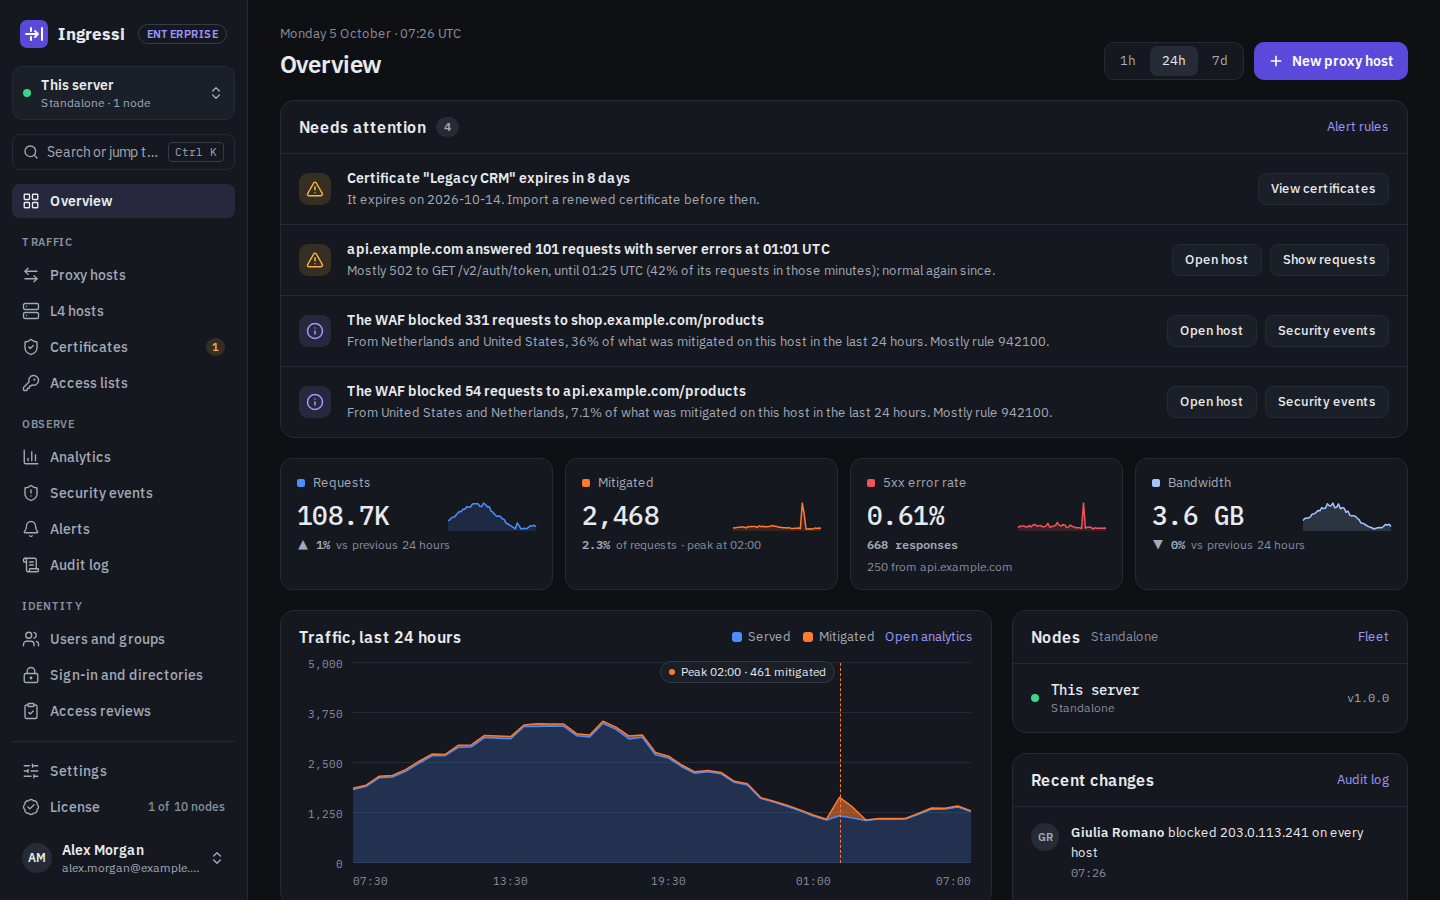
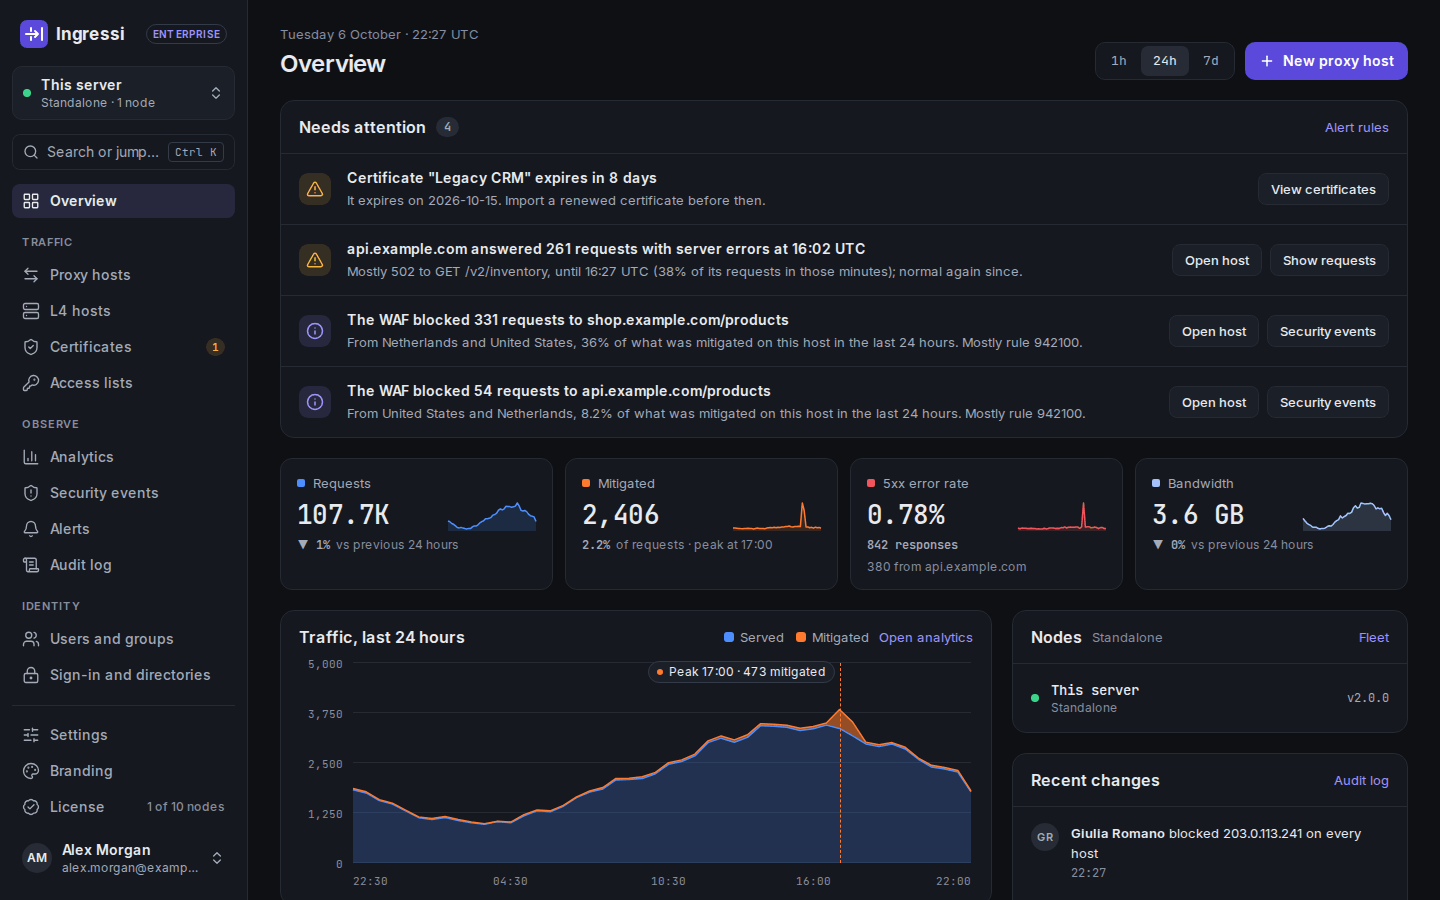
Screenshots: walkthrough captures and WAF audit records for the seeded SQL injection events
- New captures for the website's walkthrough: host editor security, host detail, a WAF event's detail (rule 942100, filtered by URL), certificates, access lists, audit log
- Seeded rule 942100 events carry a Coraza audit record, so their detail explains the block and suggests an exclusion
- README dashboard screenshot retaken

Claude-Session: https://claude.ai/code/session_01GVa3e7dow7rzRtzMwWmNwp

diff --git a/tests/shots/data.ts b/tests/shots/data.ts
@@ -420,16 +420,82 @@ FROM (
 )
 `;
 
-/** One WAF event for every request the WAF stopped (the first specific rule, as the log parser stores it). */
+/**
+ * One WAF event for every request the WAF stopped (the first specific rule, as the log parser stores it).
+ * The SQL injection events carry a Coraza audit record (sqliRecord), so the event detail can say why
+ * each was blocked and offer an exclusion; the others have none, like events logged without one.
+ */
 export const WAF_EVENTS_SQL = `
 INSERT INTO waf_events (ts, host, client_ip, country_code, method, uri, rule_id, rule_message, severity, raw_data, blocked, tx_id)
 SELECT ts, host, client_ip, country_code, method, uri, toInt32(waf_rule_id),
        transform(waf_rule_id, {rule_ids:Array(UInt32)}, {rule_messages:Array(String)}, ''),
        transform(waf_rule_id, {rule_ids:Array(UInt32)}, {rule_severities:Array(String)}, 'critical'),
-       NULL, true, lower(hex(cityHash64(ts, client_ip, uri, host, rand())))
-FROM traffic_events
-WHERE outcome = 'waf' AND waf_rule_id != 0
+       nullIf(replaceAll(replaceAll(replaceAll(replaceAll(replaceAll(
+         transform(uri, {sqli_paths:Array(String)}, {sqli_records:Array(String)}, ''),
+         '__TX__', tx), '__HOST__', host), '__CLIENT__', client_ip), '__METHOD__', method),
+         '__NS__', concat(toString(toUnixTimestamp(ts)), '000000000')), ''),
+       true, tx
+FROM (
+  SELECT *, lower(hex(cityHash64(ts, client_ip, uri, host, rand()))) AS tx
+  FROM traffic_events
+  WHERE outcome = 'waf' AND waf_rule_id != 0
+)
 `;
+
+/** The argument and value a SQL injection path attacks: ARGS:id, 1' OR '1'='1. */
+function sqliArgument(path: string): { name: string; value: string } {
+  const query = path.slice(path.indexOf('?') + 1);
+  const [name, raw] = query.split(/=(.*)/s);
+  return { name, value: decodeURIComponent(raw) };
+}
+
+/**
+ * The Coraza audit record (SecAuditLogParts ABFHZ, as coraza-caddy writes it) of a blocked SQL injection
+ * request: rule 942100 matched, then the inbound anomaly score blocked it. __TX__, __HOST__, __CLIENT__,
+ * __METHOD__ and __NS__ are filled in per event by WAF_EVENTS_SQL.
+ */
+export function sqliRecord(path: string): string {
+  const arg = sqliArgument(path);
+  const q = (value: string) => JSON.stringify(value);
+  const line = (action: string, id: number, msg: string, data: string, severity: string, file: string) =>
+    `[client "__CLIENT__"] ${action} ${msg} [file ${q(file)}] [line "4242"] [id ${q(String(id))}] [rev ""] ` +
+    `[msg ${q(msg)}] [data ${q(data)}] [severity ${q(severity)}] [ver "OWASP_CRS/4.25.0"] [maturity "0"] [accuracy "0"] ` +
+    `[tag "attack-sqli"] [hostname "172.18.0.5"] [uri ${q(path)}] [unique_id "__TX__"]`;
+  const partH = (error: string) => ({ actionset: '', message: '', error_message: error, data: null });
+  return JSON.stringify({
+    transaction: {
+      timestamp: '',
+      unix_timestamp: '__NS__',
+      id: '__TX__',
+      client_ip: '__CLIENT__',
+      client_port: 51234,
+      host_ip: '172.18.0.5',
+      host_port: 443,
+      server_id: '',
+      request: {
+        method: '__METHOD__',
+        protocol: 'HTTP/2.0',
+        uri: path,
+        http_version: '2.0',
+        headers: { host: ['__HOST__'], 'user-agent': ['sqlmap/1.8.4#stable (https://sqlmap.org)'] },
+        body: '',
+        files: null,
+        args: {},
+        length: 0,
+      },
+      response: { protocol: '', status: 403, headers: {}, body: '' },
+      producer: { connector: 'coraza-caddy', version: 'v2.6.1', server: '', rule_engine: 'On', stopwatch: '', rulesets: ['OWASP_CRS/4.25.0'] },
+      highest_severity: '',
+      is_interrupted: true,
+    },
+    messages: [
+      partH(line('Coraza: Warning.', 942100, 'SQL Injection Attack Detected via libinjection',
+        `Matched Data: s&sos found within ARGS:${arg.name}: ${arg.value}`, 'CRITICAL', '@owasp_crs/REQUEST-942-APPLICATION-ATTACK-SQLI.conf')),
+      partH(line('Coraza: Access denied (phase 2).', 949110, 'Inbound Anomaly Score Exceeded (Total Score: 5)',
+        '', 'unknown', '@owasp_crs/REQUEST-949-BLOCKING-EVALUATION.conf')),
+    ],
+  }).replace('"__NS__"', '__NS__');
+}
 
 /**
  * Matches that stay below the anomaly threshold (protocol notices and
@@ -448,10 +514,13 @@ FROM (
 
 export function ruleParams() {
   const ids = Object.keys(CRS_RULES).map(Number);
+  const sqliPaths = [...new Set([...ATTACKS, ...PROBES].filter(([, rule]) => rule === 942100).map(([path]) => path))];
   return {
     rule_ids: ids,
     rule_messages: ids.map((id) => CRS_RULES[id].message),
     rule_severities: ids.map((id) => CRS_RULES[id].severity),
+    sqli_paths: sqliPaths,
+    sqli_records: sqliPaths.map(sqliRecord),
   };
 }
 

diff --git a/tests/shots/screenshots.spec.ts b/tests/shots/screenshots.spec.ts
@@ -7,6 +7,9 @@
  *   users-and-sign-in.png, compliance.png  → the website's site/assets/screenshots/
  *   preview.png (1200×630, og:image)        → the website's site/assets/images/
  *   dashboard.png                           → this repository's .github/assets/
+ *   host-editor-security.png, host-detail.png, security-event-detail.png,
+ *   certificates.png, access-lists.png,
+ *   audit-log.png                           → the website's feature walkthrough
  * and full-page copies under review/ for checking what each page showed.
  * Look at every image before publishing it: synthetic data only, nothing
  * half-loaded, no error banners. The License page is never captured (it
@@ -139,13 +142,43 @@ test('host editor', async ({ page }) => {
     if (await link.isVisible().catch(() => false)) {
       await link.click();
       await page.waitForTimeout(1500);
-      await page.screenshot({ path: resolve(REVIEW, `host-editor-${section.toLowerCase()}.png`), animations: 'disabled' });
+      if (section === 'Security') await capture(page, 'host-editor-security');
+      else await page.screenshot({ path: resolve(REVIEW, `host-editor-${section.toLowerCase()}.png`), animations: 'disabled' });
     }
   }
   await page.goto(`/proxy-hosts/${id}`);
   await page.waitForTimeout(3000);
-  await page.screenshot({ path: resolve(REVIEW, 'host-detail.png'), animations: 'disabled' });
+  await capture(page, 'host-detail');
 });
+
+test('security event detail', async ({ page }) => {
+  // A WAF block of the SQL injection rule: its detail says why and offers an exclusion.
+  const filters = JSON.stringify([{ dim: 'waf_rule', op: 'is', value: '942100' }]);
+  await page.goto(`/security?range=24h&kind=waf&filters=${encodeURIComponent(filters)}`);
+  const wafRow = page.locator('table tr').filter({ hasText: 'Blocked by WAF' }).filter({ hasText: '942100' }).first();
+  await expect(wafRow).toBeVisible({ timeout: 30_000 });
+  await wafRow.locator('button[aria-expanded="false"]').click();
+  const open = page.locator('table button[aria-expanded="true"]').first();
+  await expect(open).toBeVisible();
+  await page.waitForTimeout(1500);
+  await open.evaluate((button) => {
+    const row = button.closest('tr');
+    if (row) window.scrollBy(0, row.getBoundingClientRect().top - 140);
+  });
+  await capture(page, 'security-event-detail');
+});
+
+for (const [name, path] of [
+  ['certificates', '/certificates'],
+  ['access-lists', '/access-lists'],
+  ['audit-log', '/audit-log'],
+] as const) {
+  test(name, async ({ page }) => {
+    await page.goto(path);
+    await expect(page.getByRole('heading', { level: 1 })).toBeVisible();
+    await capture(page, name);
+  });
+}
 
 test('users and sign-in', async ({ page }) => {
   await page.goto('/users');
